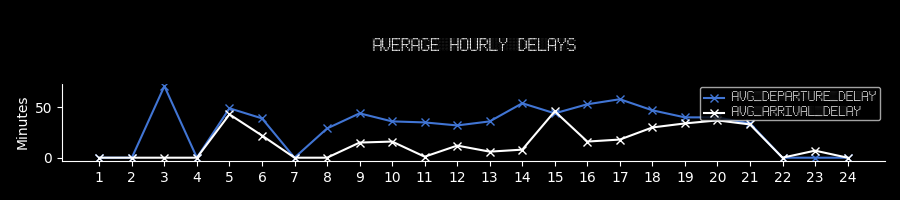
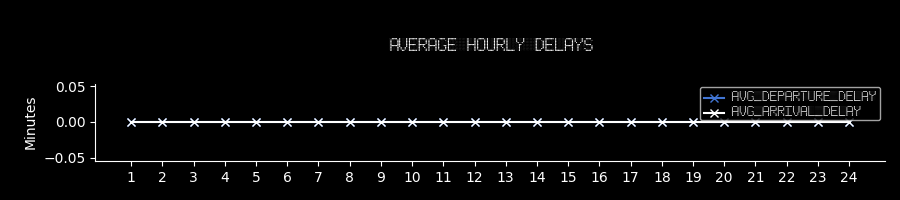
add condition if there are no data to process

diff --git a/src/post/post_to_discord.py b/src/post/post_to_discord.py
@@ -2,14 +2,18 @@ import requests
 from dotenv import load_dotenv
 import os
 
-def post_to_discord(message_text, image_path):
+def post_to_discord(message_text, image_path=None):
     load_dotenv()
     webhook_url =  os.getenv("webhook_url")
-    
-    with open(image_path, "rb") as f:
-        file_data = {"file": (image_path, f)}
+
+    if image_path == None :
         payload = {"content": message_text}
-        response = requests.post(webhook_url, data=payload, files=file_data)
+        response = requests.post(webhook_url, data=payload)
+    else:
+        with open(image_path, "rb") as f:
+            file_data = {"file": (image_path, f)}
+            payload = {"content": message_text}
+            response = requests.post(webhook_url, data=payload, files=file_data)
 
     if response.status_code in (200,204):
         print("✅ Successfully posted to Discord!")

diff --git a/main.py b/main.py
@@ -50,6 +50,14 @@ if __name__ == "__main__":
     print("📥 Fetching Nouvelair flight data...")
     module = NouvelairDataFetcher()
     data_api = module.fetch_data()
+    data_api = module.fetch_data()
+    if data_api.empty:
+        text = "⚠ No data to process. Exiting script."
+        print(text)
+        post_to_discord(text)
+        exit()
+
+    print(data_api)
 
     table_name_raw = f"raw_flight_data_{today_str}"
     save_or_upload_data(data_api, table_name_raw)

diff --git a/src/etl/fetch_nouvelair_data.py b/src/etl/fetch_nouvelair_data.py
@@ -39,7 +39,7 @@ class NouvelairDataFetcher:
 
         response = requests.get(self.url, params=params)
         response.raise_for_status()
-
+        print(response)
         data = response.json()
 
         if 'data' in data:
